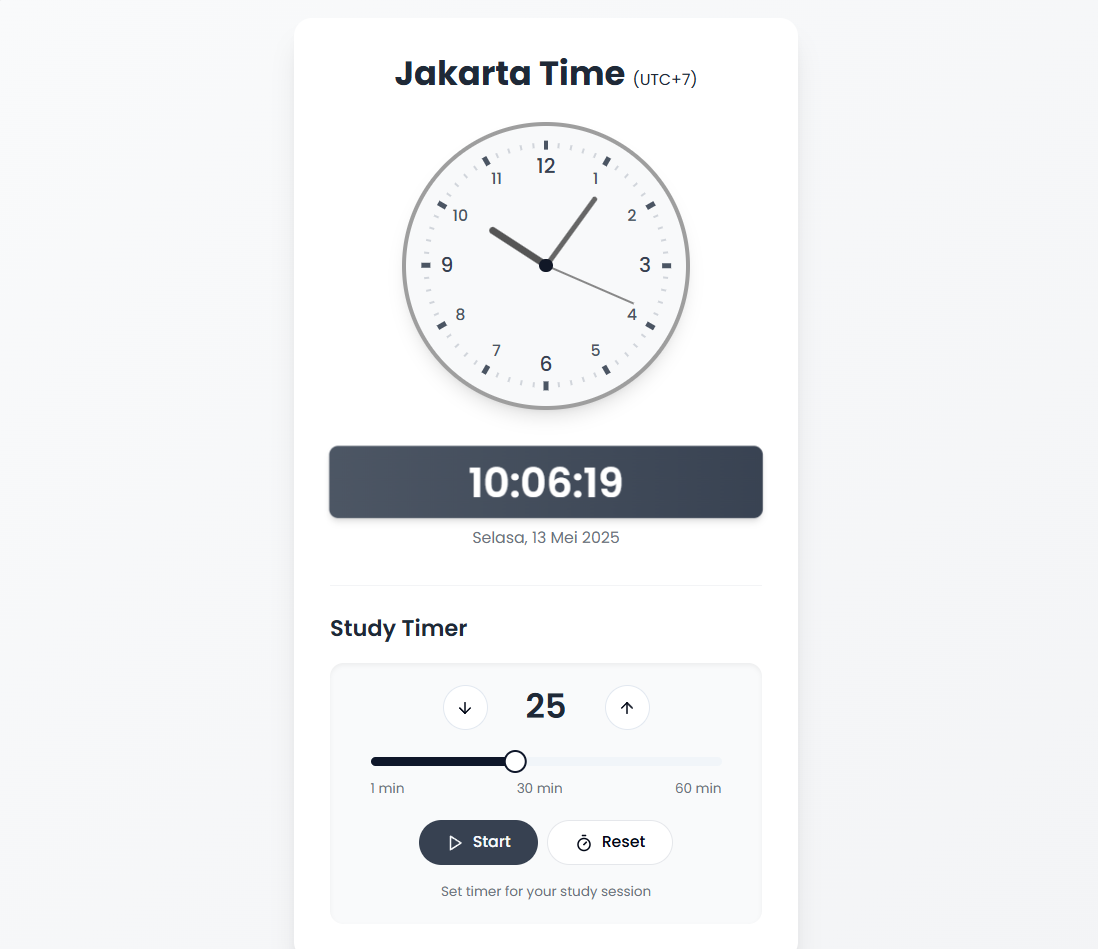
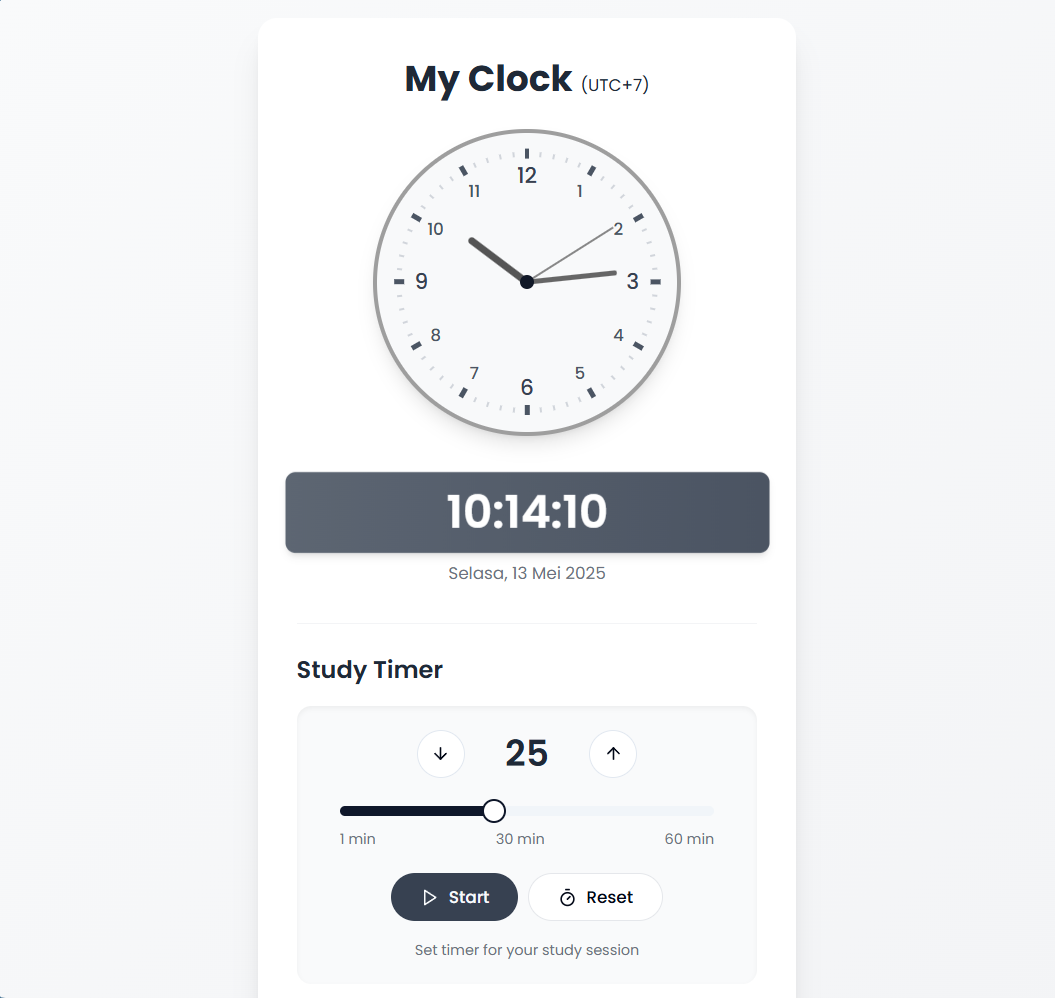
new

diff --git a/src/pages/Index.tsx b/src/pages/Index.tsx
@@ -10,7 +10,7 @@ const Index = () => {
       <div className="max-w-md w-full bg-white rounded-2xl shadow-xl overflow-hidden">
         <div className="p-8">
           <h1 className="text-2xl md:text-3xl font-bold text-center text-gray-800 mb-6">
-            Jakarta Time <span className="text-sm font-normal">(UTC+7)</span>
+            My Clock <span className="text-sm font-normal">(UTC+7)</span>
           </h1>
           
           <div className="mb-8 flex justify-center">

diff --git a/index.html b/index.html
@@ -4,7 +4,7 @@
   <head>
     <meta charset="UTF-8" />
     <meta name="viewport" content="width=device-width, initial-scale=1.0" />
-    <title>Jakarta Time Clock & Timer</title>
+    <title>My Clock Bliss</title>
     <meta name="description" content="Jakarta Time Clock with Pomodoro Timer" />
     <meta name="author" content="Lovable" />
     <link rel="stylesheet" href="https://fonts.googleapis.com/css2?family=Poppins:wght@300;400;500;600;700&display=swap">
